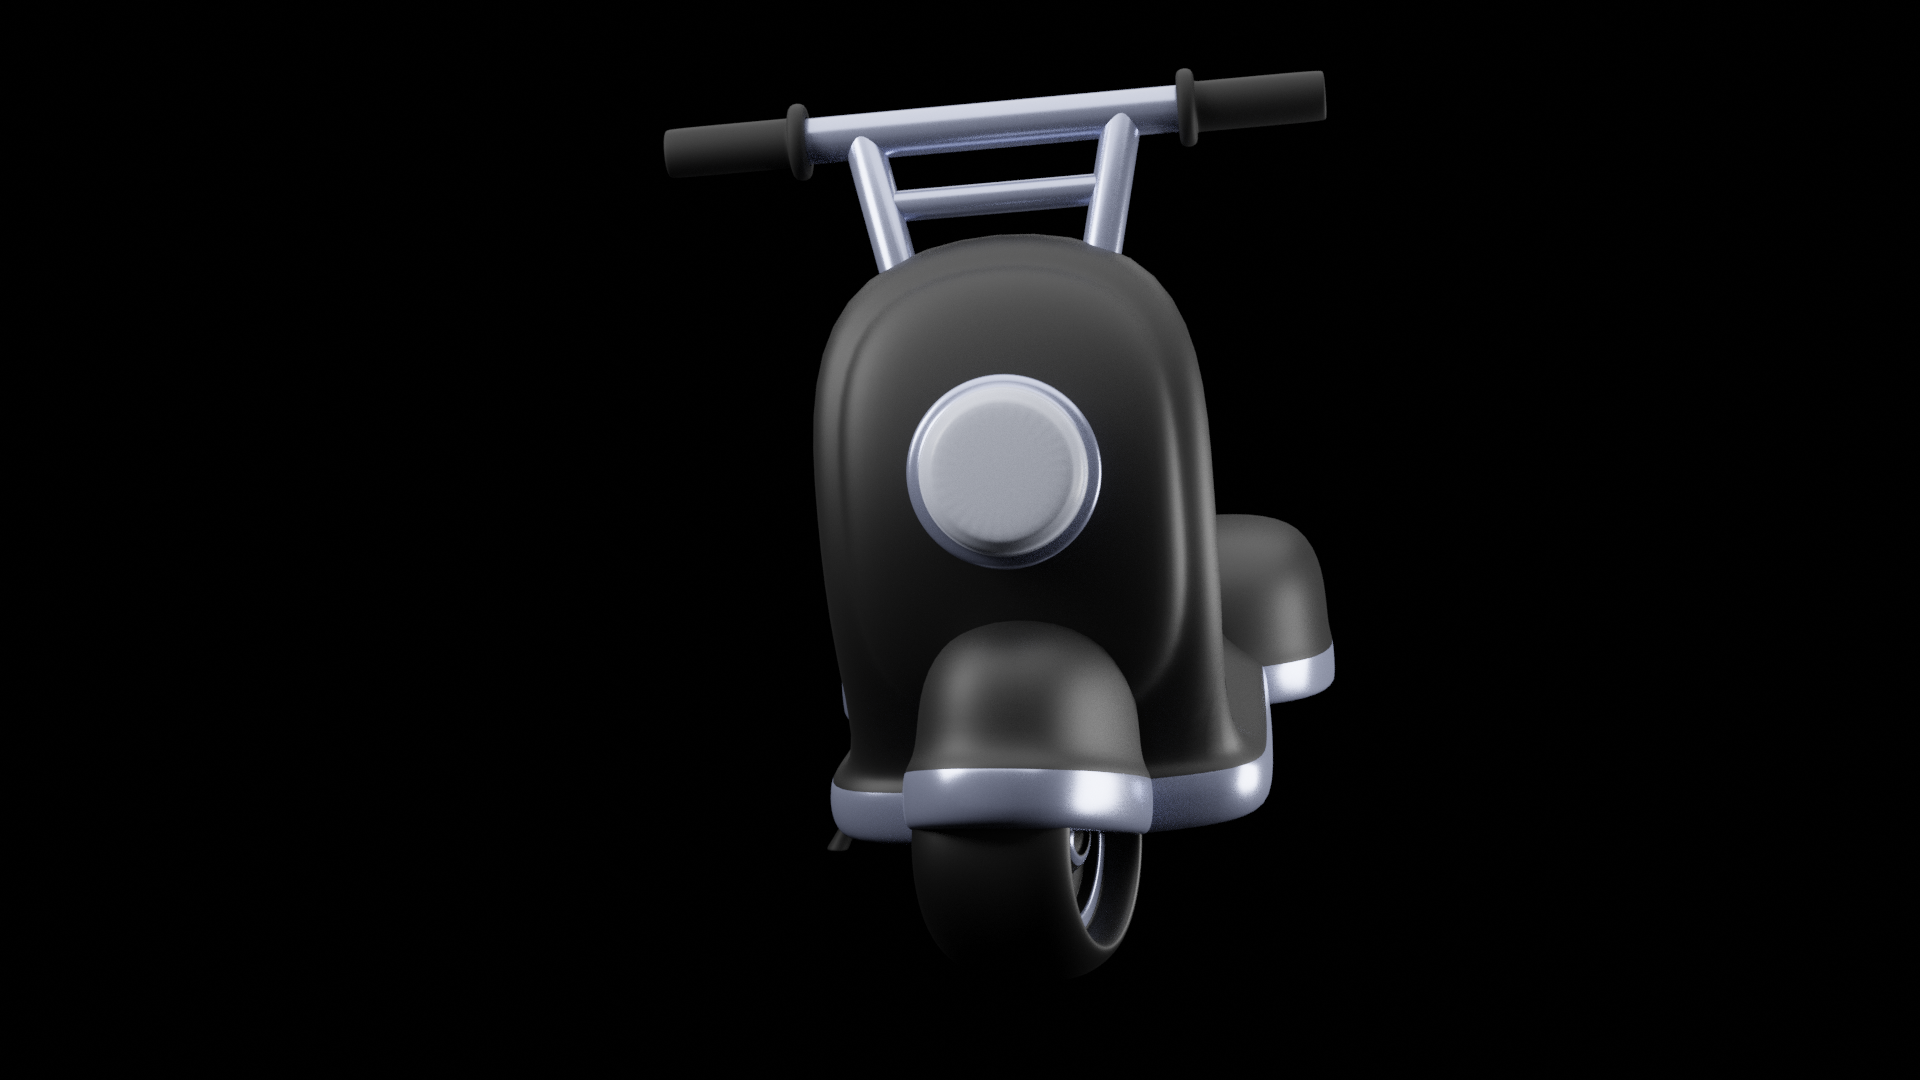
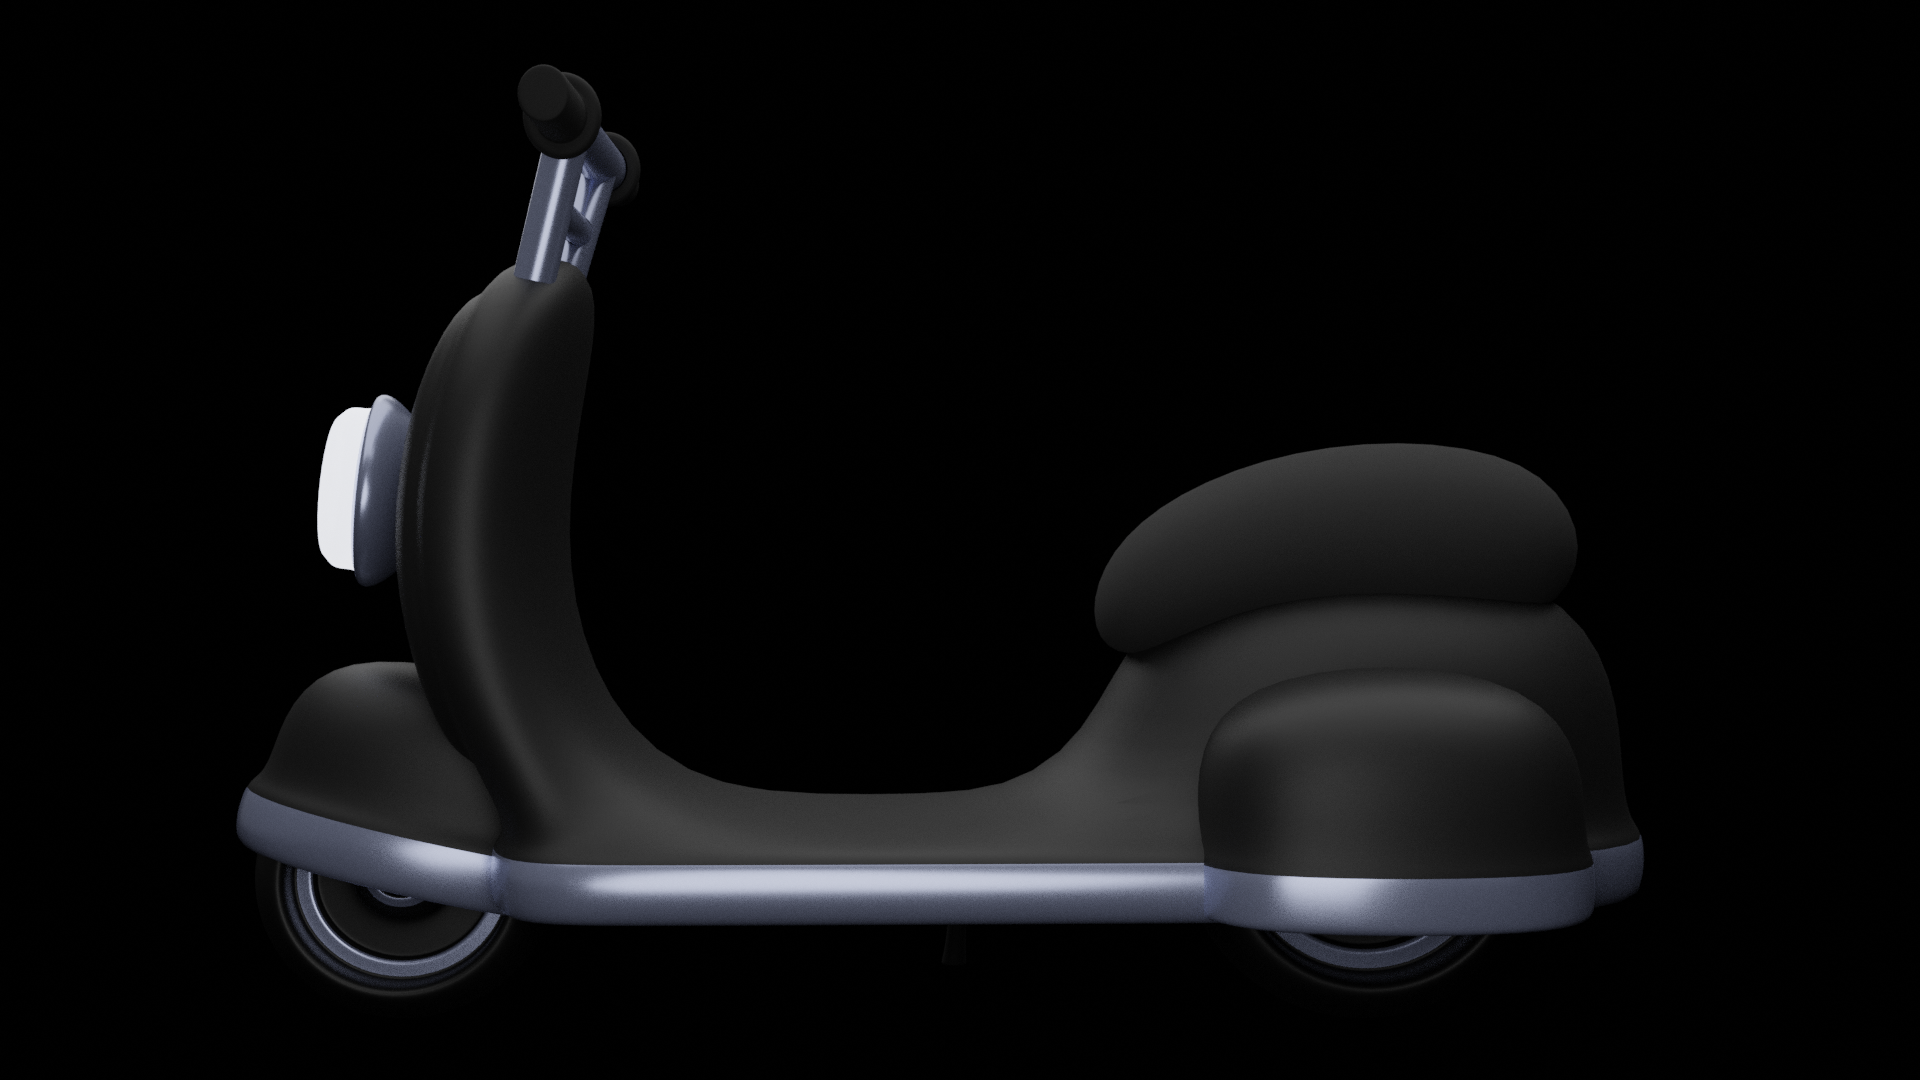
create page2

Changed region(s): [[0.125, 0.0611, 0.875, 0.9472]]

diff --git a/Home/Home.html b/Home/Home.html
@@ -18,7 +18,7 @@
             
             <div class="page-menu">
                 <a href="#" onclick="closeNav()">Home</a>
-                <a href="#" onclick="closeNav()">Cards</a>
+                <a href="#page2" onclick="closeNav()">Introduction</a>
                 <a href="#">Social media</a>
             </div>
         </div>
@@ -33,9 +33,9 @@
             Est facilis architecto nihil molestiae quasi voluptatum adipisci minima error <br>
             tempora, hic placeat consectetur maiores! Ipsum nobis hic vero doloribus deleniti.</h4>
         <button class="button">Lets Go</button>
-        <img src="image/scoterX.png" alt="image" class="image">
+        <img src="image/scoterY.png" alt="image" class="image">
 
-        <div class="Tools">
+        <div class="Tools" id="page2">
             <a href="#"><i class='bx bxl-google bx-lg'></i></a>
             <a href="#"><i class='bx bxl-github bx-lg'></i></a>
             <a href="#"><i class='bx bxl-facebook-circle bx-lg'></i></a> <br>
@@ -43,6 +43,15 @@
             <a href="#"><i class='bx bxl-youtube bx-lg'></i></a>
             <a href="#"><i class='bx bxl-linkedin-square bx-lg'></i></a>
         </div>
+    </div>
+    <div class="page2">
+        <h1>The scooter introduction</h1>
+        <h5><i class='bx bx-check bx-sm'></i> Shiny and durable tires</h2>
+        <h5><i class='bx bx-check bx-sm'></i> Bright lights</h2>
+        <h5><i class='bx bx-check bx-sm'></i> Soft and waterproof chair</h2>
+        <h5><i class='bx bx-check bx-sm'></i> Beautiful and eye-catching design</h2>
+        <h5><i class='bx bx-check bx-sm'></i> Using the best technologies in the world</h2>
+        <img src="image/scoterX.png" alt="" class="imagePage2">
     </div>
 
     <footer class="footer">

diff --git a/Home/Home.css b/Home/Home.css
@@ -1,5 +1,6 @@
 @import url('https://fonts.googleapis.com/css2?family=Roboto:wght@300;400;500;700;900&display=swap');
 @import url('https://fonts.googleapis.com/css2?family=Pacifico&display=swap');
+@import url('https://fonts.googleapis.com/css2?family=Fredoka+One&family=Roboto:wght@300;400;500;700;900&display=swap');
 
 html, body {
     background-color: #000;
@@ -37,7 +38,7 @@ body.page-menu {
 
 .menu {
     height: 100%;
-    font-family: 'Roboto', sans-serif;
+    font-family: 'Fredoka One', cursive;
     width: 0;
     position: fixed;
     z-index: 1000;
@@ -85,7 +86,7 @@ body.page-menu {
     font-weight: 500;
     font-size: 40px;
     color: #fff;
-    font-family: 'Roboto', sans-serif;
+    font-family: 'Roboto', cursive;
 }
 
 .WelcomeText h4 {
@@ -156,7 +157,7 @@ body.page-menu {
 .WelcomeText h5 {
     color: #818181;
     margin-top: 200px;
-    font-family: 'Roboto', sans-serif;
+    font-family: 'Fredoka One', cursive;
 }
 
     /* Footer */
@@ -180,7 +181,7 @@ body.page-menu {
         padding: 50px 0;
         font-family: 'Roboto', sans-serif;
         line-height: 1.5;
-        margin-top: 310px;
+        margin-top: 410px;
     }
     
     .footer-col {
@@ -277,3 +278,32 @@ body.page-menu {
             margin-left: 15px;
         }
     }
+
+.page2 {
+    margin-top: 250px;
+    margin-left: 130px;
+}
+
+.imagePage2 {
+    display: flex;
+    float: right;
+    width: 960px;
+    height: 540px;
+    margin-top: -379px;
+}
+
+.page2 i {
+    color: #777;
+    position: relative;
+    top: 4px;
+}
+
+.page2 h1 {
+    color: #FFF;
+    font-family: 'Roboto', sans-serif;
+}
+
+.page2 h5 {
+    color: #FFF;
+    font-family: 'Roboto', sans-serif;
+}
